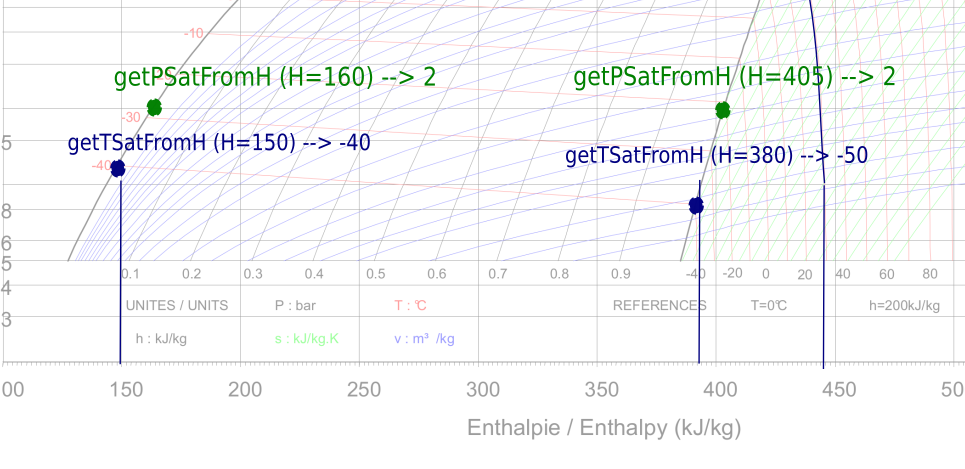
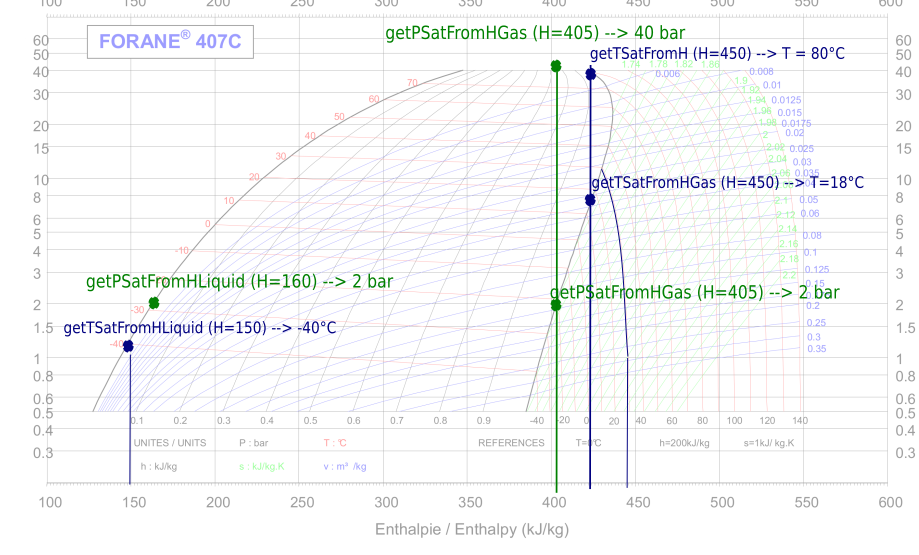
getTSatFromHLiquid

diff --git a/src/testing/refrigerant/JUnitRefrigant.java b/src/testing/refrigerant/JUnitRefrigant.java
@@ -12,54 +12,52 @@ public class JUnitRefrigant {
 		double P;
 		double H;
 
-		//Refrigerant refrigerant = new Refrigerant("./ressources/R407/R407C/Saturation Table R407C Dupont-Suva.txt");
+		Refrigerant refrigerant = new Refrigerant("./ressources/R407/R407C/Saturation Table R407C Dupont-Suva.txt");
 		//Refrigerant refrigerant = new Refrigerant("./ressources/R22/Saturation Table R22.txt");
-		Refrigerant refrigerant = new Refrigerant("./ressources/R22/Saturation Table R22.txt");
 		System.out.println(refrigerant.getRfgName());
-
-		System.out.println("\n---> Construct JSON data");
-		JSONObject jsonObj = new JSONObject();
-		jsonObj = refrigerant.getJsonObject();
-		System.out.println(jsonObj);
-
-		System.out.println("\n---> Modify the instance by loading new gas ");
-		refrigerant.loadRfgGasSaturationData("./ressources/R407/R407C/Saturation Table R407C Dupont-Suva.txt");
-		System.out.println("   Gaz Name ="+ refrigerant.getRfgName());
-	
-		System.out.println("\n---> Read JSON data");
-		System.out.println("---> Set the Class Instance with JSON data");
-		refrigerant.setJsonObject(jsonObj);
-		System.out.println(jsonObj);
-
-		System.out.println("\n");
 
 		P = 2.0;
 		T = -40.0;
+		H = 150;
 
-		//T=80;
+		// getPSatFromT(-40)
 		System.out.println(	"T= " + T + "°C " +  
 				" --> P Saturation (Liquid)= " + refrigerant.getPSatFromT(T).getPLiquid() + "(bar)" +
 				" --> P Saturation(gas)= "     + refrigerant.getPSatFromT(T).getPGas()    + "(bar)" 
 				);
 
-
-		//P=39.808;
+		//getTSatFromP(2)
 		System.out.println(	"P= " +P + "(bar) " +  
 				" --> T Saturation (Liquid)= " + refrigerant.getTSatFromP(P).getTLiquid() + "(°C)" +
 				" --> T Saturation(gas)= "     + refrigerant.getTSatFromP(P).getTGas()    + "(°C)" 
 				);
 
+		
+		// getHSatFromT(-40)
 		System.out.println(	"T= " + T + "°C " +  
 				" --> H Saturation (Liquid)= " + refrigerant.getHSatFromT(T).getHLiquid() + "(kJ/kg)" +
 				" --> H Saturation(gas)= "     + refrigerant.getHSatFromT(T).getHGas()    + "(kJ/kg)" 
 				);
 
-
+		// getHSatFromP(2)
 		System.out.println(	"P= " +P + "(bar) " +  
 				" --> H Saturation (Liquid)= " + refrigerant.getHSatFromP(P).getHLiquid() + "(kJ/kg)" +
 				" --> H Saturation(gas)= "     + refrigerant.getHSatFromP(P).getHGas()    + "(kJ/kg)" 
 				);
 
+		// getTSatFromHLiquid()
+		H = 150;
+		System.out.println(	"H= " + H + "(kJ/kg)" +  
+				" --> T Saturation = " + refrigerant.getTSatFromHLiquid(H) + "°C"
+				);
+
+		H = 380;
+		System.out.println(	"H= " + H + "(kJ/kg)" +  
+				" --> T Saturation = " + refrigerant.getTSatFromHLiquid(H) + "°C"
+				);
+		
+		
+		
 		System.out.println("\n\n ISOBAR");
 		H = 100.0;
 		for(int n=0;n<15;n++) {
@@ -84,6 +82,23 @@ public class JUnitRefrigant {
 					);
 		}
 
+		System.out.println("\n---> Construct JSON data");
+		JSONObject jsonObj = new JSONObject();
+		jsonObj = refrigerant.getJsonObject();
+		System.out.println(jsonObj);
+
+		System.out.println("\n---> Modify the instance by loading new gas ");
+		refrigerant.loadRfgGasSaturationData("./ressources/R407/R407C/Saturation Table R407C Dupont-Suva.txt");
+		System.out.println("   Gaz Name ="+ refrigerant.getRfgName());
+	
+		System.out.println("\n---> Read JSON data");
+		System.out.println("---> Set the Class Instance with JSON data");
+		refrigerant.setJsonObject(jsonObj);
+		System.out.println(jsonObj);
+
+		System.out.println("\n");
+
+		
 	}
 
 }

diff --git a/src/refrigerant/SatCurve.java b/src/refrigerant/SatCurve.java
@@ -58,7 +58,7 @@ public class SatCurve {
 	// -------------------------------------------------------
 	// 					     OTHERS
 	// -------------------------------------------------------
-	
+
 	/**
 	 * ===============================================================================================
 	 * Read Saturation data file containing, and will complete the 
@@ -159,7 +159,7 @@ public class SatCurve {
 		return(vgasName);
 	}
 
-	
+
 	/**
 	 * ===============================================================================================
 	 * Convert Saturation Temperature(°C) to Pressure (bar) 
@@ -426,7 +426,7 @@ public class SatCurve {
 		return hOut;	
 	}
 
-	
+
 	/**
 	 * 
 	 * @param H
@@ -443,11 +443,16 @@ public class SatCurve {
 	 * 
 	 * 
 	 */
-	public double getTSatFromH(double vH) {
+	public double getTSatFromHLiquid(double vH) {
 		double outT=0;
-		double min = Double.MAX_VALUE;
+		double min;
 		int id=0;
 
+		// Check H Limit
+		if (vH > gasSatTable.get(gasSatTable.size()-1).get(id_H_Liquid))
+			return 0.0;
+		
+		min = Double.MAX_VALUE;
 		for(int n = 0; n < gasSatTable.size(); n++){
 			double diff = Math.abs(gasSatTable.get(n).get(id_H_Liquid) - vH);
 			if (diff < min) {
@@ -455,12 +460,11 @@ public class SatCurve {
 				id = n;
 			}
 		}
-		
+
 		if (id == gasSatTable.size()-1) {
 			id = id-1;
 		} 
 
-		
 		double x,y0,y1,x0,x1;
 		x  = vH;
 		x0 = gasSatTable.get(id).get(id_H_Liquid);
@@ -469,14 +473,13 @@ public class SatCurve {
 			logger.error("(getTSatFromH )");
 			logger.error("  2 same valeurs will cause and issue and must be removed ");
 		}
-
 		y0 = gasSatTable.get(id).get(id_Temp);
 		y1 = gasSatTable.get(id+1).get(id_Temp);
 		outT = (x-x0)*(y1-y0)/(x1-x0)+ y0;
-		
+
 		return outT;
 	}
-	
+
 	// -----------------------------------------------------------------------------------------
 	// 										Isobaric 
 	// -----------------------------------------------------------------------------------------
@@ -494,7 +497,7 @@ public class SatCurve {
 		return outP;
 	}
 
-		
+
 	/**
 	 * Get Temperature of Isobaric
 	 * @param refP
@@ -510,8 +513,8 @@ public class SatCurve {
 		double satTGas = this.getTSatFromP(refP).getTGas();
 
 		if (H< satHLiquid) 
-			outT = this.g;
-		
+			outT = 0;
+
 		else if (H> satHGas)
 			outT = 0.0;
 		else {
@@ -532,7 +535,7 @@ public class SatCurve {
 
 	public double getIsobaricH(double refP, double T) {
 		double outH = 0;
-		
+
 		return outH;
 	}
 
